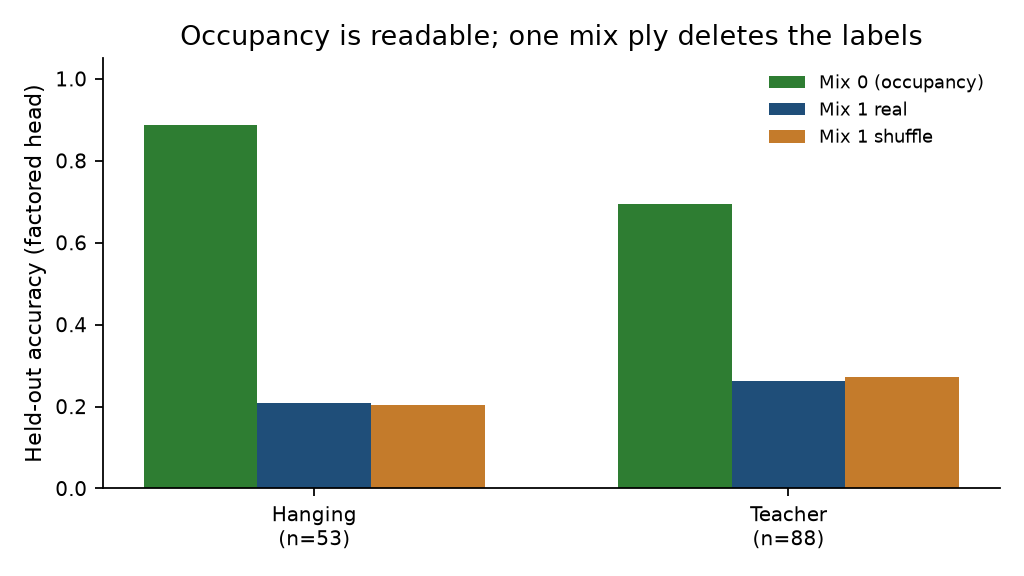
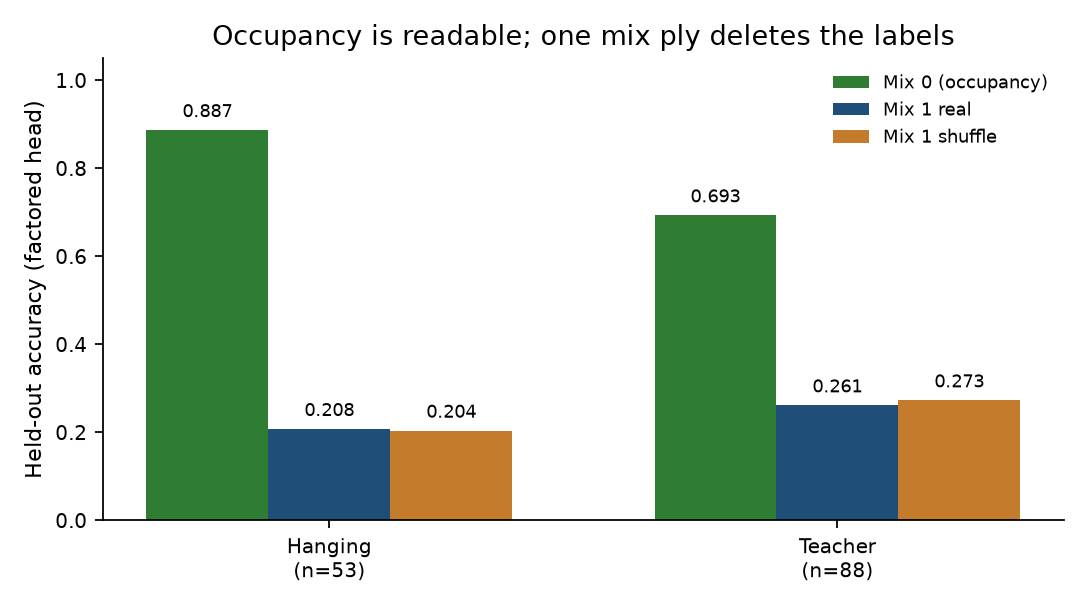
Label occupancy bars with locked factored accuracies.

diff --git a/scripts/make_readme_figures.py b/scripts/make_readme_figures.py
@@ -34,6 +34,28 @@ def _style(ax) -> None:
     ax.tick_params(labelsize=9)
 
 
+def _acc_label(value: float) -> str:
+    return f"{value:.3f}"
+
+
+def _score_label(value: float) -> str:
+    if abs(value - 0.5) < 1e-12:
+        return "0.50"
+    return f"{value:.4f}"
+
+
+def _label_bars(ax, bars, values, fmt, dy: float) -> None:
+    for bar, val in zip(bars, values):
+        ax.text(
+            bar.get_x() + bar.get_width() / 2.0,
+            bar.get_height() + dy,
+            fmt(val),
+            ha="center",
+            va="bottom",
+            fontsize=8,
+        )
+
+
 def fig_labels() -> None:
     """Factored hanging and teacher. Mix 0 register vs mix 1 collapse. No mix 3."""
     raw = _load("planes_labels.json")
@@ -51,15 +73,21 @@ def fig_labels() -> None:
     n_teach = teach0["n_eval"]
     x = np.arange(2, dtype=float)
     w = 0.24
-    fig, ax = plt.subplots(figsize=(6.4, 3.6), dpi=160)
-    ax.bar(x - w, [hang0["real_acc"], teach0["real_acc"]], w, label="Mix 0 (occupancy)", color=OCC)
-    ax.bar(x, [hang1["real_acc"], teach1["real_acc"]], w, label="Mix 1 real", color=REAL)
-    ax.bar(x + w, [hang1["shuffle_acc_mean"], teach1["shuffle_acc_mean"]], w, label="Mix 1 shuffle", color=SHUFFLE)
+    occ = [hang0["real_acc"], teach0["real_acc"]]
+    m1_real = [hang1["real_acc"], teach1["real_acc"]]
+    m1_sh = [hang1["shuffle_acc_mean"], teach1["shuffle_acc_mean"]]
+    fig, ax = plt.subplots(figsize=(6.8, 3.8), dpi=160)
+    b0 = ax.bar(x - w, occ, w, label="Mix 0 (occupancy)", color=OCC)
+    b1 = ax.bar(x, m1_real, w, label="Mix 1 real", color=REAL)
+    b2 = ax.bar(x + w, m1_sh, w, label="Mix 1 shuffle", color=SHUFFLE)
+    _label_bars(ax, b0, occ, _acc_label, 0.02)
+    _label_bars(ax, b1, m1_real, _acc_label, 0.02)
+    _label_bars(ax, b2, m1_sh, _acc_label, 0.02)
     ax.set_xticks(x, [f"Hanging\n(n={n_hang})", f"Teacher\n(n={n_teach})"])
     ax.set_ylabel("Held-out accuracy (factored head)")
     ax.set_ylim(0, 1.05)
     ax.set_title("Occupancy is readable; one mix ply deletes the labels")
-    ax.legend(frameon=False, fontsize=8)
+    ax.legend(frameon=False, fontsize=8, loc="upper right")
     _style(ax)
     fig.tight_layout()
     fig.savefig(DOCS / "fig_labels.png")
@@ -121,12 +149,6 @@ def fig_cosine() -> None:
     plt.close(fig)
 
 
-def _score_label(value: float) -> str:
-    if abs(value - 0.5) < 1e-12:
-        return "0.50"
-    return f"{value:.4f}"
-
-
 def fig_games() -> None:
     eth = _load("ethology_gate.json")
     planes = _load("planes_gate.json")
@@ -142,15 +164,8 @@ def fig_games() -> None:
     ax.axhline(0.5, color=ZERO, linewidth=1.0, linestyle="--", label="Chance vs random")
     bars_real = ax.bar(x - w / 2, real, w, label="Real wiring", color=REAL)
     bars_shuf = ax.bar(x + w / 2, shuf, w, label="Shuffled wiring", color=SHUFFLE)
-    for bar, val in zip(list(bars_real) + list(bars_shuf), real + shuf):
-        ax.text(
-            bar.get_x() + bar.get_width() / 2.0,
-            bar.get_height() + 0.06,
-            _score_label(val),
-            ha="center",
-            va="bottom",
-            fontsize=8,
-        )
+    _label_bars(ax, bars_real, real, _score_label, 0.06)
+    _label_bars(ax, bars_shuf, shuf, _score_label, 0.06)
     ax.set_xticks(x, labels)
     ax.set_ylabel("Score vs random legal")
     ax.set_ylim(0, 1.05)

diff --git a/tests/test_readme.py b/tests/test_readme.py
@@ -43,10 +43,15 @@ def test_readme_is_closed_and_quotes_locks() -> None:
     assert "Mix 0 (occupancy)" in labels_fn
     assert "check_escape" not in labels_fn
     assert 'mix_plies"] == 3' not in labels_fn
+    assert "_label_bars" in labels_fn
+    assert "_acc_label" in labels_fn
     games_fn = fig_src.split("def fig_games")[1].split("def main")[0]
     assert "n={n}" in games_fn
     assert "not restamped" in games_fn
+    assert "_label_bars" in games_fn
     assert "def _score_label" in fig_src
+    assert "def _acc_label" in fig_src
+    assert "def _label_bars" in fig_src
     assert "hanging n_eval=53" in text
     assert "teacher n_eval=88" in text
     assert "n_eval=62, five seeds" in text
